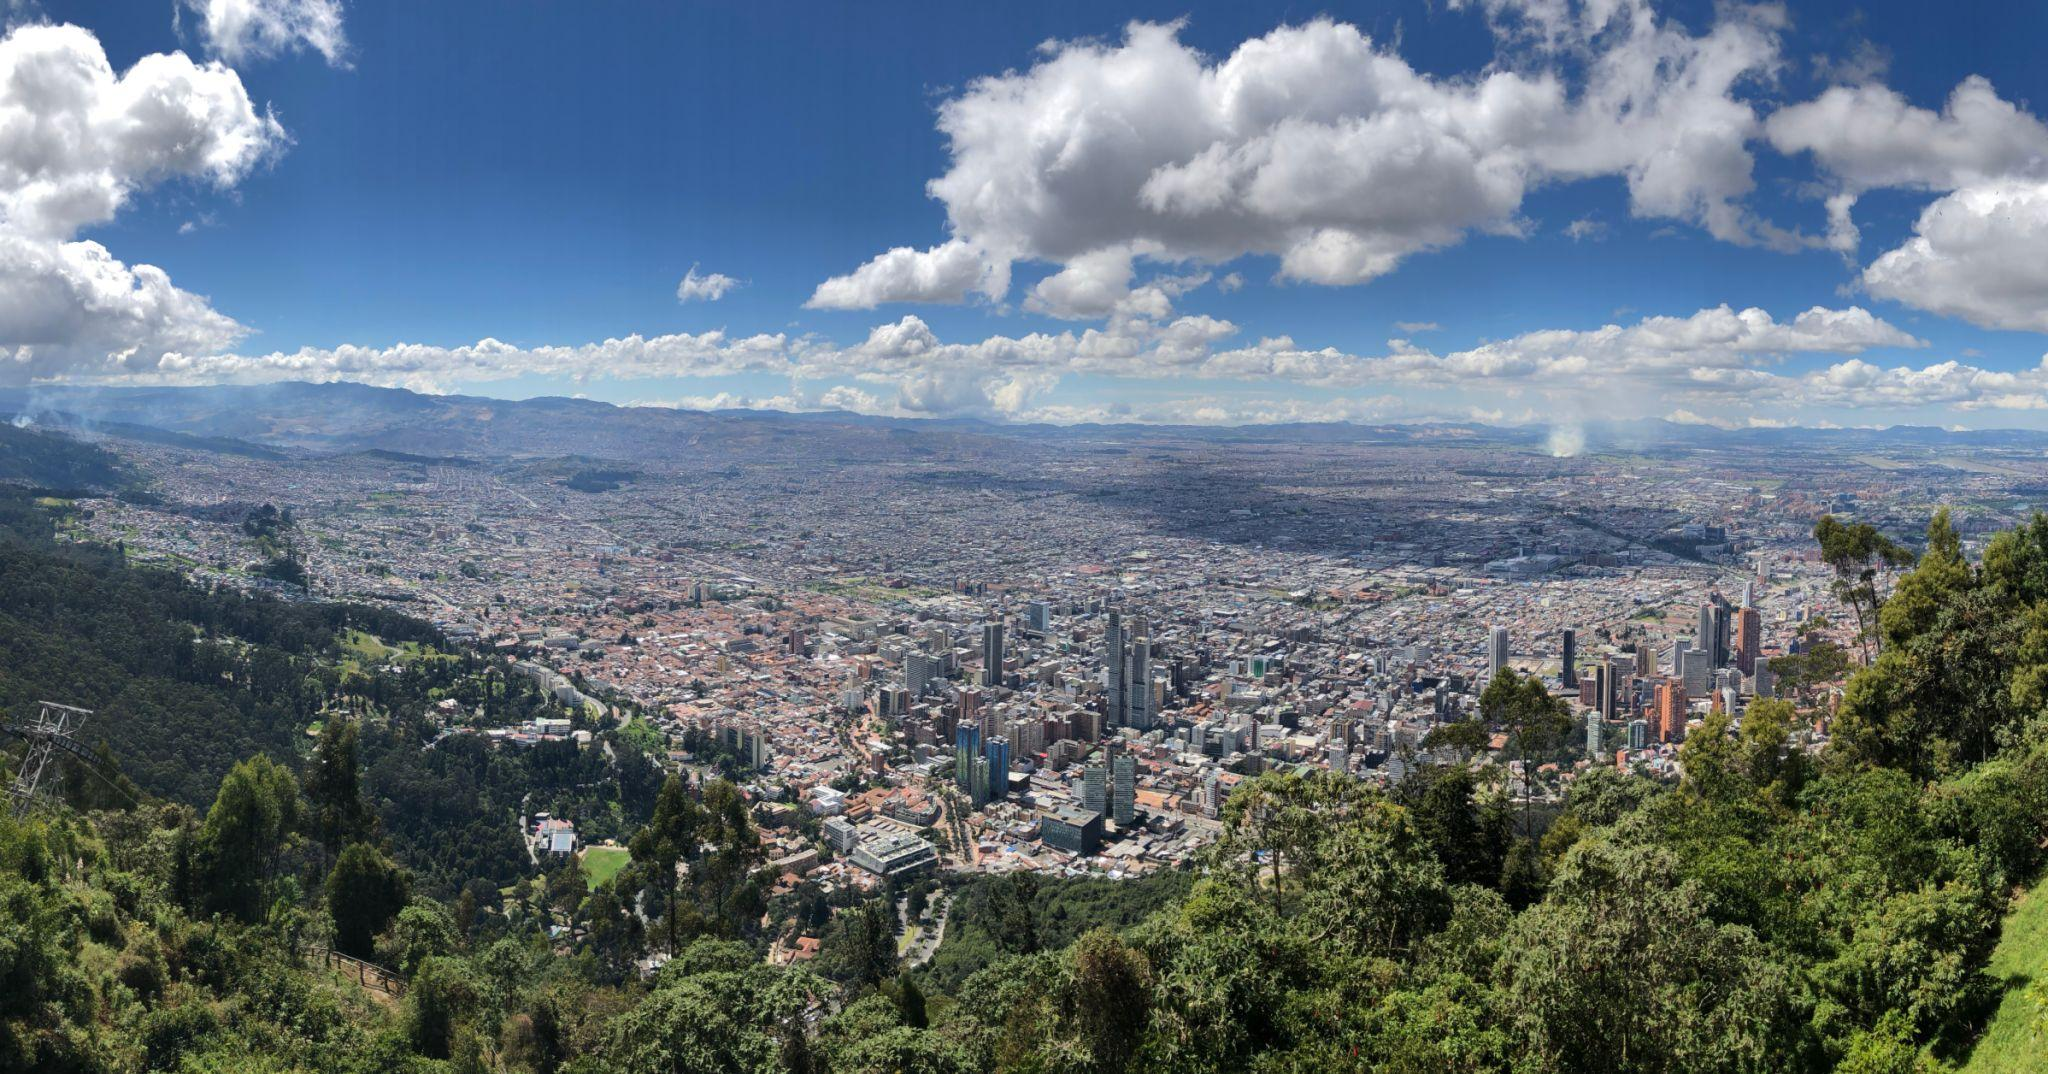
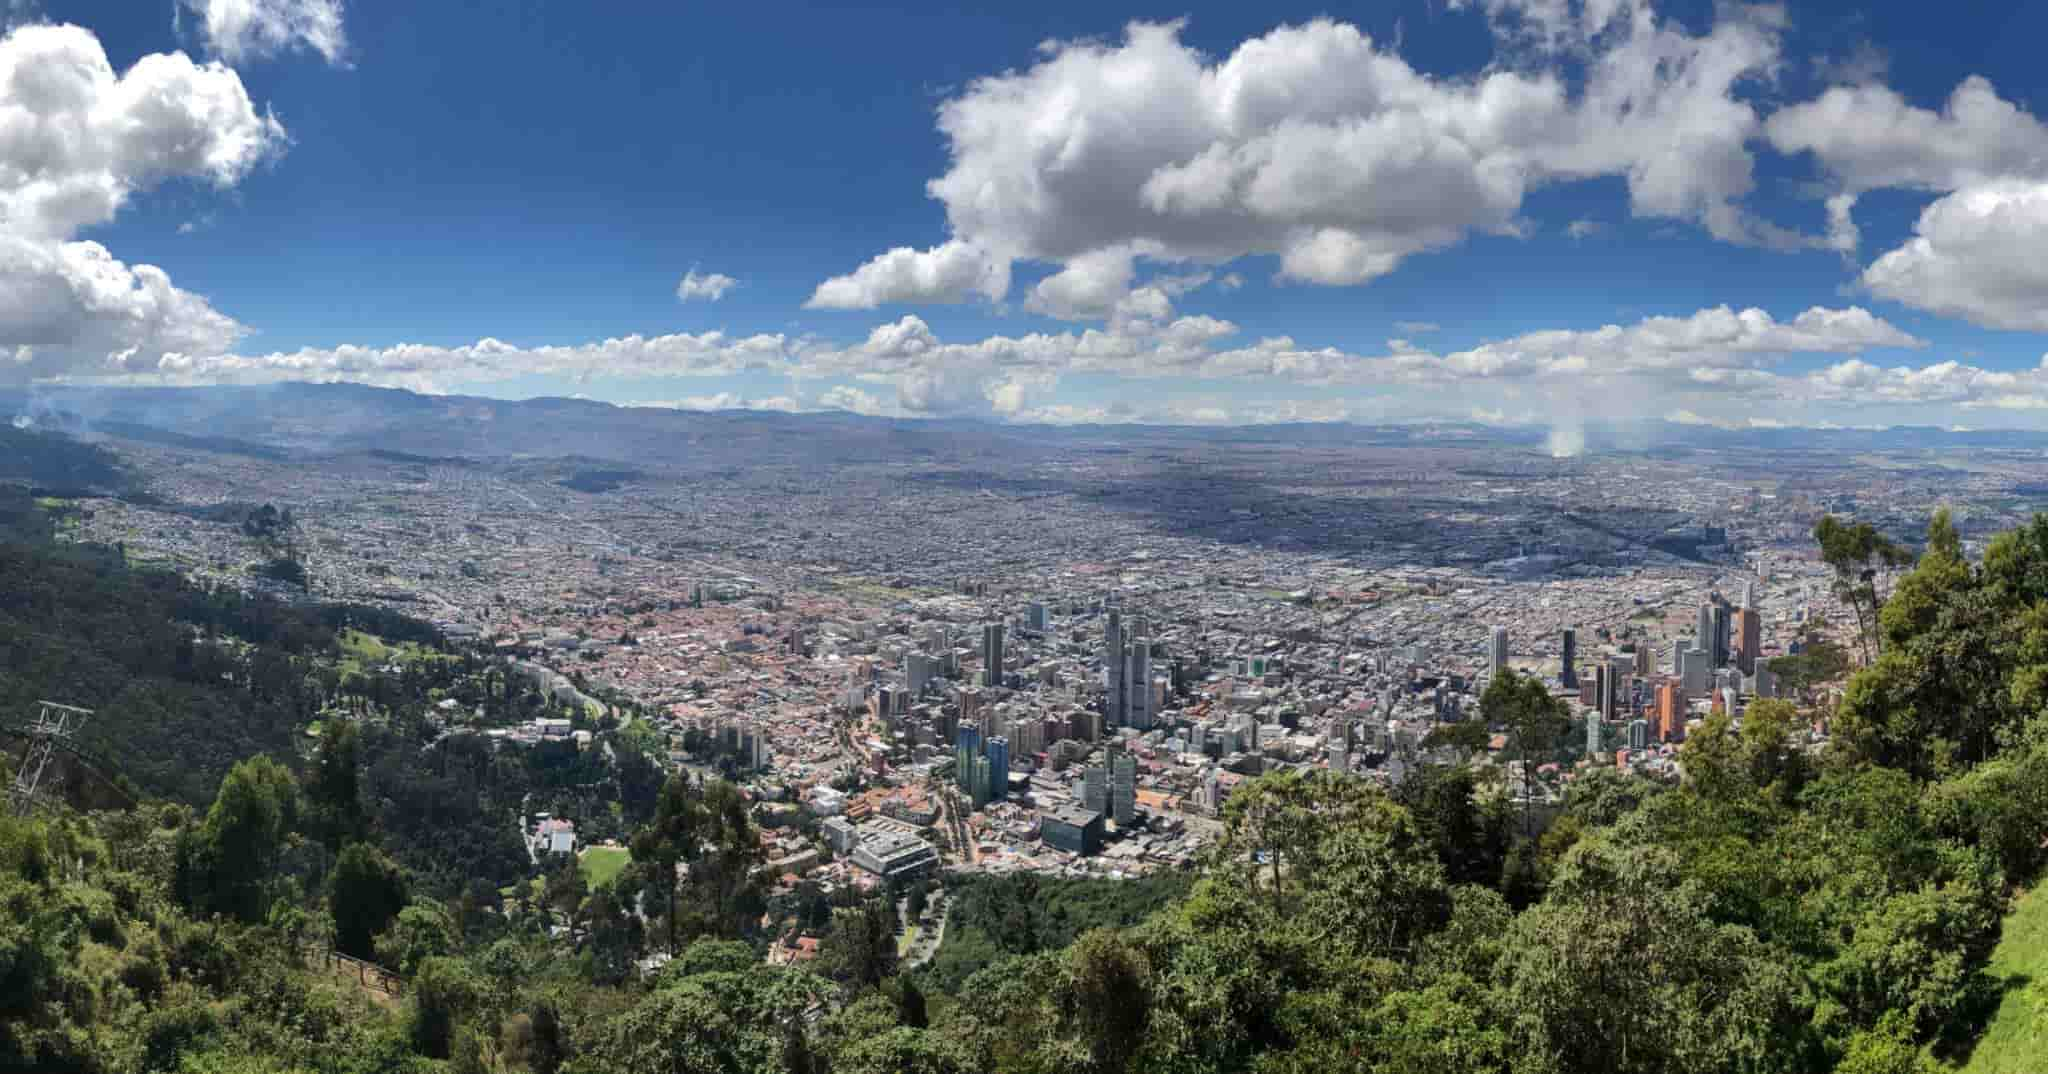
Improve homepage and fix W01 audit issues

diff --git a/index.html b/index.html
@@ -1,15 +1,22 @@
 <!DOCTYPE html>
 <html lang="en">
+
 <head>
     <meta charset="UTF-8">
     <meta name="viewport" content="width=device-width, initial-scale=1.0">
     <title>WDD 131: Dynamic Web Fundamentals - Fabiana Gonzalez Yanes</title>
     <meta name="description"
-      content="WDD 131 - Dynamic Web Fundamentals landing page by Fabiana Gonzalez Yanes covering web development fundamentals, JavaScript, HTML, and CSS projects. ">
-    <meta name="author" content="Fabiana Gonzalez Yanes | WDD 131">
+        content="WDD 131 - Dynamic Web Fundamentals landing page by Fabiana Gonzalez Yanes covering web development fundamentals, JavaScript, HTML, and CSS projects.">
+    <meta name="author" content="Fabiana Gonzalez Yanes">
+
+    <link rel="preconnect" href="https://fonts.googleapis.com">
+    <link rel="preconnect" href="https://fonts.gstatic.com" crossorigin>
+    <link href="https://fonts.googleapis.com/css2?family=Lora:wght@400;700&family=Roboto:wght@400;500;700&display=swap" rel="stylesheet">
+
     <link rel="stylesheet" href="styles/base.css">
     <script src="scripts/getdates.js" defer></script>
 </head>
+
 
 <body>
   <header>
@@ -75,11 +82,13 @@
 </section>
   </main>
 
-  <footer>
+<footer>
     <p>
         &copy; <span id="currentyear"></span>
-  Fabiana Gonzalez Yanes | Colombia
-</p>
-  </footer>
+        Fabiana Gonzalez Yanes | Colombia
+    </p>
+    <p id="lastModified"></p>
+</footer>
+
 </body>
 </html>

diff --git a/styles/base.css b/styles/base.css
@@ -7,11 +7,18 @@
 }
 
 body {
-  font-family: Arial, Helvetica, sans-serif;
-  margin: 0;
-  padding: 0;
-  color: var(--text-color);
-  background-color: #f9f9f9;
+    font-family: 'Roboto', sans-serif;
+    font-size: 1.1rem;
+    line-height: 1.6;
+    margin: 0;
+    padding: 0;
+    color: var(--text-color);
+    background-color: #f9f9f9;
+}
+h1,
+h2,
+h3 {
+    font-family: 'Lora', serif;
 }
 
 header {
@@ -115,12 +122,6 @@ footer p {
     min-width: 0;
 }
 
-.about-location img {
-    flex: 0 0 250px;
-    width: 250px;
-    height: 200px;
-    object-fit: cover;
-}
 
 .about-location img {
     width: 250px;
@@ -153,22 +154,8 @@ footer p {
     margin-top: auto;
     margin-bottom: auto;
 }
-body {
-    font-size: 1.1rem;
-    line-height: 1.6;
-}
-.about-location {
-    gap: 2rem;
-}
-.card {
-    background-color: var(--white);
-    border: 1px solid #ddd;
-    border-radius: 8px;
-    padding: 1.5rem;
-    box-shadow: 0 2px 5px rgba(0,0,0,.05);
-    overflow: hidden;
-}
+
 .card h3 {
     text-align: center;
-    font-size: 1.3rem;
+    margin-bottom: 0.5rem;
 }
